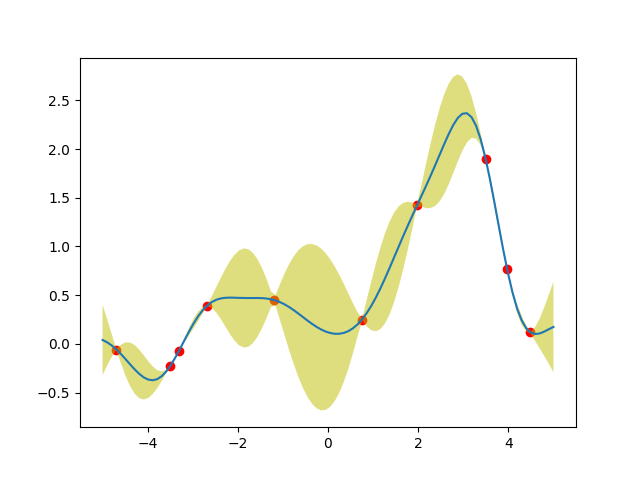
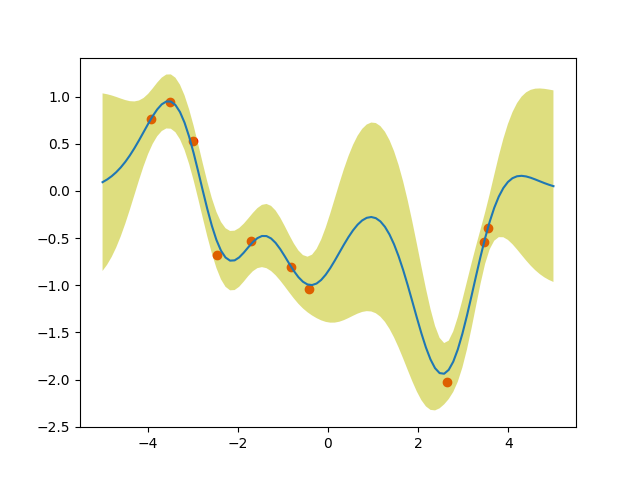
Consider error term

diff --git a/prediction.py b/prediction.py
@@ -1,7 +1,7 @@
 import numpy as np
 import matplotlib.pyplot as plt
 
-from sampling import sample, gauss_kernel
+from sampling import sample, gauss_kernel, gauss_kernel_with_error
 
 
 def get_train_data(size=10, start=-5, stop=5):
@@ -11,10 +11,13 @@ def get_train_data(size=10, start=-5, stop=5):
 
 
 # 予測分布はガウス分布になるので、その平均と分散を返す
-def predict_distribution(xs, train_xs, train_ys, theta1=1.0, theta2=1.0):
+def predict_distribution(xs, train_xs, train_ys,
+                         theta1=1.0, theta2=1.0, theta3=0.05):
     k_ = gauss_kernel(train_xs, xs)
-    k__ = gauss_kernel(xs, xs)
-    K = gauss_kernel(train_xs, train_xs, theta1=theta1, theta2=theta2)
+    k__ = gauss_kernel_with_error(xs, xs,
+                                  theta1=theta1, theta2=theta2, theta3=theta3)
+    K = gauss_kernel_with_error(train_xs, train_xs,
+                                theta1=theta1, theta2=theta2, theta3=theta3)
     K_inv = np.linalg.inv(K)
     means = k_.T.dot(K_inv.dot(train_ys))
     vars = k__ - k_.T.dot(K_inv).dot(k_)

diff --git a/sampling.py b/sampling.py
@@ -17,6 +17,12 @@ def gauss_kernel(xis, xjs, theta1=1.0, theta2=1.0):
     return np.exp(-theta1 * diff ** 2 / theta2)
 
 
+def gauss_kernel_with_error(xis, xjs, theta1=1.0, theta2=1.0, theta3=0.4):
+    gauss = gauss_kernel(xis, xjs, theta1=theta1, theta2=theta2)
+    delta = theta3 * np.eye(len(xis))
+    return gauss + delta
+
+
 def exp_kernel(xis, xjs, theta1=1.0, theta2=1.0):
     diff = _make_diff(xis, xjs)
     return np.exp(-theta1 * np.abs(diff) / theta2)
